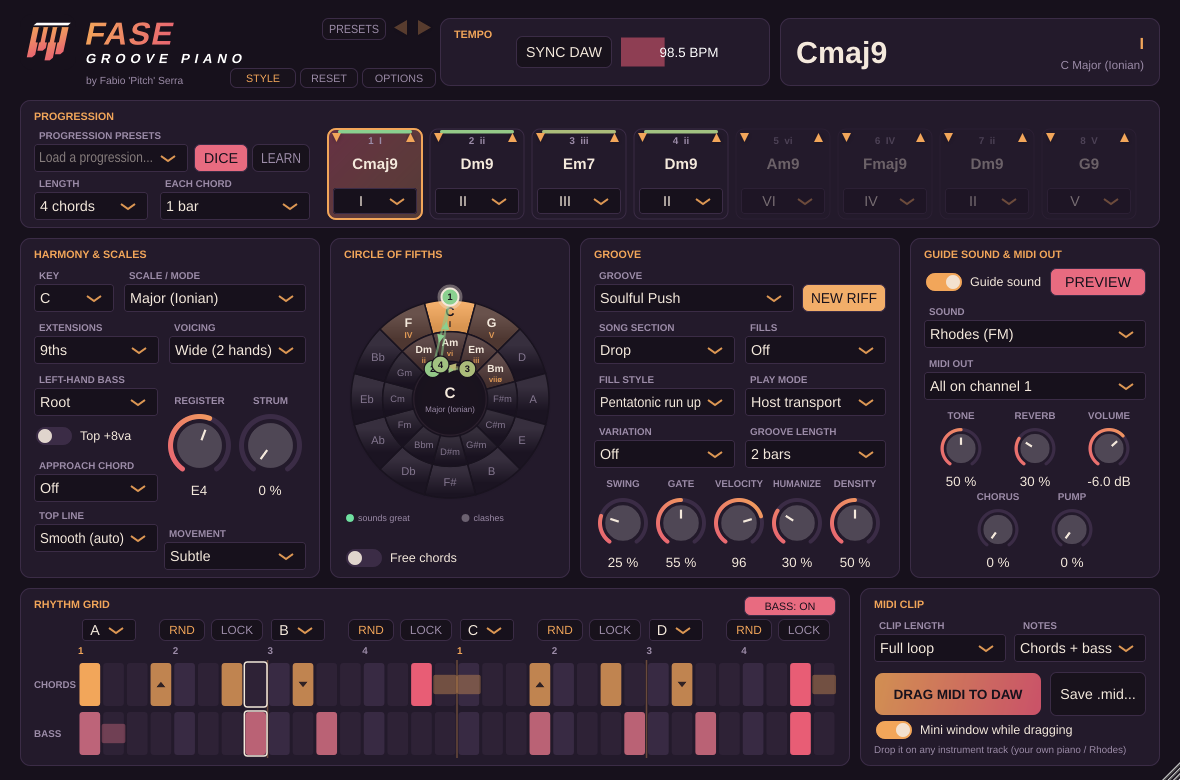
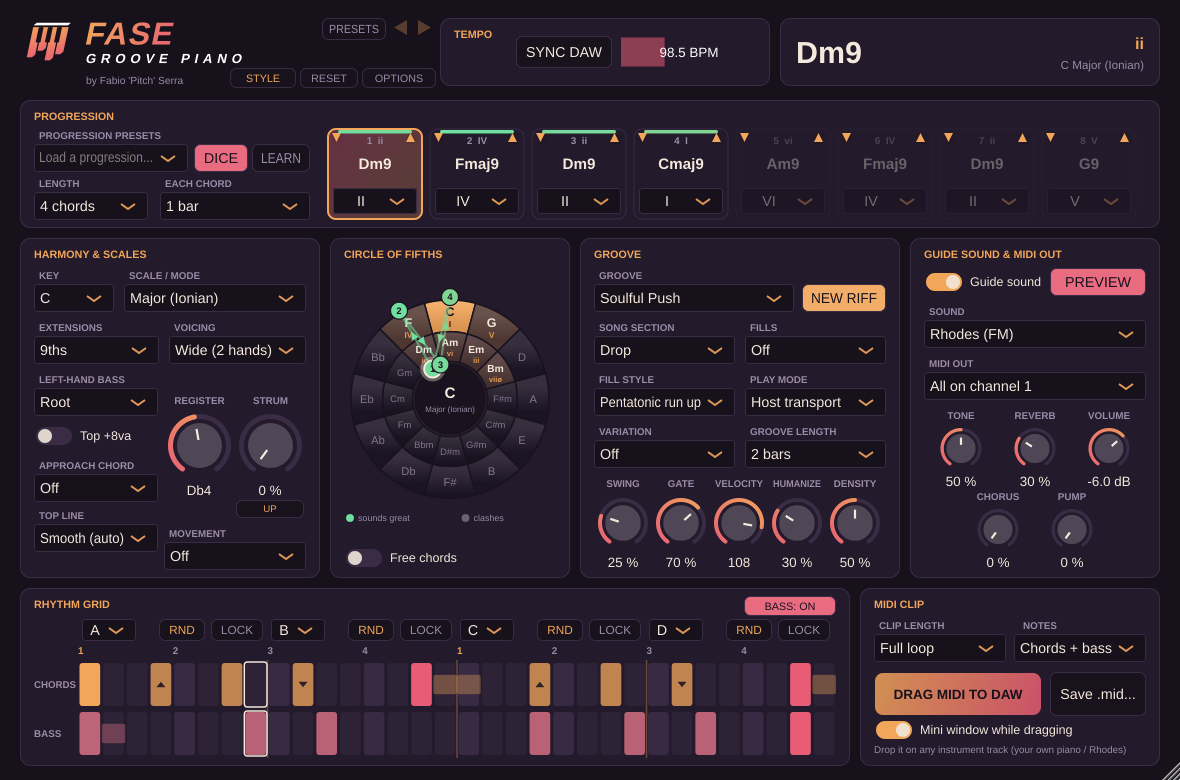
v1.13.0: house piano voicings, Piano House loop grooves, new defaults
- Voicing engine accepts the inner 9th/minor-3rd semitone, so rootless
  house shapes (b7-9-b3-5, 9-3-5-7) are chosen
- 16 Piano House grooves (128 in total) and a House Piano Loop style
- Defaults: rootless voicing, register C#4, gate 70%, velocity 108,
  movement off; random riffs use loop figures with an octave bass
- Guides, READMEs, website and changelogs (EN/IT)

Claude-Session: https://claude.ai/code/session_014RdMJH1UNm9GuUqHn9LsGH

diff --git a/docs/index.html b/docs/index.html
@@ -67,7 +67,7 @@
     <div class="card"><b>🎹 <span class="en">Harmony</span><span class="it">Armonia</span></b>
       <p class="en">13 scales, 9ths, 11ths, 6/9, sus and gospel dominants, voiced like a real pianist.</p>
       <p class="it">13 scale, none, undicesime, 6/9, sus e dominanti gospel, con voicing da pianista vero.</p></div>
-    <div class="card"><b>🥁 <span class="en">112 grooves</span><span class="it">112 groove</span></b>
+    <div class="card"><b>🥁 <span class="en">128 grooves</span><span class="it">128 groove</span></b>
       <p class="en">Soulful, deep, gospel, jackin', garage, afro, disco, '90s piano, neo soul, chill.</p>
       <p class="it">Soulful, deep, gospel, jackin', garage, afro, disco, piano anni '90, neo soul, chill.</p></div>
     <div class="card"><b>🎚 <span class="en">One-click styles</span><span class="it">Stili con un clic</span></b>

diff --git a/Source/engine/Generators.cpp b/Source/engine/Generators.cpp
@@ -195,8 +195,81 @@ GroovePattern applySection (const GroovePattern& source, Section section)
 }
 
 //==============================================================================
+namespace
+{
+    /** Piano house riff from the classic loop figures: syncopated offbeat stabs (often every
+        three 16ths) over an octave bass on the 1 and the "&" of 2, decorated per seed. */
+    GroovePattern makeLoopRiff (Random& rng, double density)
+    {
+        static const char* const rhBars[] {
+            "..x..x..x..x..x.", "..x....x...x..x.", "x......x..x..x..", "x...x..x..x..x..",
+            "x..x..x...x..x..", ".x..x.x.x..x..x.", "..xx.x..x.x.....", "..x..x....x..x..",
+            "x..x..x..x..x.x.", "..x..x..x...x...",
+        };
+        static const char* const lhBars[] {
+            "x.....x.........", "x.....x.......x.", "x.....x.....x...", "x.....x.x...x.x.",
+        };
+        constexpr int numRh = (int) (sizeof (rhBars) / sizeof (*rhBars));
+        constexpr int numLh = (int) (sizeof (lhBars) / sizeof (*lhBars));
+
+        const int a = rng.below (numRh);
+        const int b = rng.chance (0.45) ? a : rng.below (numRh);
+        std::string right = std::string (rhBars[a]) + rhBars[b];
+
+        const int la = rng.below (numLh);
+        std::string left = std::string (lhBars[la]) + lhBars[rng.chance (0.6) ? la : rng.below (numLh)];
+
+        // Accent the first hit of each bar, sometimes an offbeat; hold some stabs a little
+        // longer in sparse riffs; a ghost before a hit in busy ones.
+        for (int bar = 0; bar < 2; ++bar)
+        {
+            bool first = true;
+            for (int i = bar * 16; i < bar * 16 + 16; ++i)
+            {
+                char& c = right[(size_t) i];
+                if (c != 'x')
+                    continue;
+                if (first || rng.chance (0.2))
+                    c = 'X';
+                first = false;
+                if (i + 1 < 32 && right[(size_t) i + 1] == '.' && rng.chance (0.3 * (1.0 - density)))
+                    right[(size_t) i + 1] = '=';
+            }
+        }
+        for (int i = 1; i < 31; ++i)
+            if (right[(size_t) i] == '.' && isHit (right[(size_t) i + 1]) && rng.chance (0.12 * density))
+                right[(size_t) i] = 'g';
+
+        // Push into the next loop, now and then with the bass.
+        if (rng.chance (0.45) && right[30] != '=')
+        {
+            right[30] = '>'; right[31] = '=';
+            if (rng.chance (0.5)) { left[30] = '>'; left[31] = '='; }
+        }
+
+        repairHolds (right);
+        repairHolds (left);
+
+        GroovePattern p;
+        p.rightHand = right;
+        p.leftHand = left;
+        return p;
+    }
+}
+
 GroovePattern makeRandomPattern (std::uint32_t seed, float densityIn)
 {
+    {
+        // Half of the riffs come from the classic piano house loop figures.
+        Random pick (seed ^ 0xC0FFEEu);
+        if (pick.chance (0.5))
+        {
+            auto p = makeLoopRiff (pick, std::clamp ((double) densityIn, 0.0, 1.0));
+            p.name = "Random Riff #" + std::to_string (seed % 100000);
+            return p;
+        }
+    }
+
     // Built like a keyboard player builds a riff: a half-bar motif made of house
     // comping cells, answered by a second half-bar, then repeated with a different ending
     // that pushes into the next bar (A B A B'). The bass keeps it simple and locks to it.
@@ -263,25 +336,11 @@ GroovePattern makeRandomPattern (std::uint32_t seed, float densityIn)
         answer = std::string (answer.rbegin(), answer.rend());
     answer = decorate (answer);
 
-    // The answer moves: some hits play the chord an inversion up or down, so the top note
-    // sings a little melody against the motif (call and response).
-    auto addMovement = [&] (std::string half)
-    {
-        bool first = true;
-        for (auto& c : half)
-        {
-            if (! isHit (c) || c == 'g' || c == '>')
-                continue;
-            if (! first && rng.chance (0.55))
-                c = rng.chance (0.6) ? (c == 'X' ? 'U' : 'u') : (c == 'X' ? 'D' : 'd');
-            first = false;
-        }
-        return half;
-    };
-    answer = addMovement (answer);
+    // House piano keeps one voicing per chord, so riffs don't move by default
+    // (the Movement control adds it when wanted).
 
     // B': the answer with a new last beat.
-    const std::string ending = answer.substr (0, 4) + addMovement (decorate (pickCell()));
+    const std::string ending = answer.substr (0, 4) + decorate (pickCell());
 
     std::string right = motif + answer + motif + ending;
 

diff --git a/Source/PluginProcessor.cpp b/Source/PluginProcessor.cpp
@@ -51,8 +51,8 @@ juce::AudioProcessorValueTreeState::ParameterLayout FaseGroovePianoProcessor::cr
     choice (ParamIDs::key, "Key", noteNames(), 9);
     choice (ParamIDs::scale, "Scale", namesFrom (sgk::numScales, sgk::scaleName), 1);
     choice (ParamIDs::extension, "Extensions", namesFrom (sgk::numExtensions, sgk::extensionName), 2);
-    choice (ParamIDs::voicing, "Voicing", namesFrom (sgk::numVoicings, sgk::voicingName), 0);
-    layout.add (std::make_unique<AudioParameterInt> (ParameterID { ParamIDs::registerPos, 1 }, "Register", 48, 76, 64,
+    choice (ParamIDs::voicing, "Voicing", namesFrom (sgk::numVoicings, sgk::voicingName), 2);   // rootless: the house piano sound
+    layout.add (std::make_unique<AudioParameterInt> (ParameterID { ParamIDs::registerPos, 1 }, "Register", 48, 76, 61,
                     AudioParameterIntAttributes().withStringFromValueFunction ([] (int v, int)
                     {
                         return String (sgk::noteName (v)) + String (v / 12 - 1);
@@ -86,14 +86,14 @@ juce::AudioProcessorValueTreeState::ParameterLayout FaseGroovePianoProcessor::cr
     for (int i = 0; i < sgk::numSegments; ++i)
         choice (ParamIDs::segment (i), "Segment " + String (i + 1), { "A", "B", "C", "D" }, i);
     unitFloat (ParamIDs::swing, "Swing", 0.0f, 0.25f);
-    unitFloat (ParamIDs::gate, "Gate", 0.1f, 0.55f);
-    layout.add (std::make_unique<AudioParameterInt> (ParameterID { ParamIDs::velocity, 1 }, "Velocity", 1, 127, 96));
+    unitFloat (ParamIDs::gate, "Gate", 0.1f, 0.7f);
+    layout.add (std::make_unique<AudioParameterInt> (ParameterID { ParamIDs::velocity, 1 }, "Velocity", 1, 127, 108));
     unitFloat (ParamIDs::humanize, "Humanize", 0.0f, 0.3f);
     choice (ParamIDs::fills, "Fills", { "Off", "Every 2 bars", "Every 4 bars", "Every 8 bars", "Every bar" }, 0);
     choice (ParamIDs::fillStyle, "Fill Style", namesFrom (sgk::numFillStyles, sgk::fillStyleName), 0);
     choice (ParamIDs::variation, "Variation", { "Off", "Every 4 bars", "Every 8 bars" }, 0);
     choice (ParamIDs::grooveBars, "Groove Length", { "2 bars", "1 bar", "4 bars" }, 0);
-    choice (ParamIDs::movement, "Voicing Movement", { "Off", "Subtle", "Lively" }, 1);
+    choice (ParamIDs::movement, "Voicing Movement", { "Off", "Subtle", "Lively" }, 0);
     choice (ParamIDs::strumDir, "Strum Direction", { "Up", "Down", "Alternate" }, 0);
     unitFloat (ParamIDs::strum, "Strum", 0.0f, 0.0f);
     layout.add (std::make_unique<AudioParameterBool> (ParameterID { ParamIDs::octaveTop, 1 }, "Top Note +8va", false));
@@ -202,6 +202,7 @@ namespace
     // bass: 0 off 1 root 2 octaves 3 root+5th   approach: 0 off 1 above 2 below
     // sound: 0 Rhodes 1 Soulful Grand 2 House Piano 3 House Organ
     const Style styles[] {
+        { "House Piano Loop",     "Minor Flow  i - VI - III - VII",    "Dotted House Stabs",   2, 2, 2, 0, 2, 61, 0.25f, 0.75f, 0.15f, 0.00f, false, 0, 0 },
         { "Classic Deep House",   "Dorian Vamp  i - IV",               "Deep Chords",          2, 2, 1, 0, 0, 62, 0.20f, 0.60f, 0.25f, 0.10f, false },
         { "Soulful House",        "Turnaround  I - vi - ii - V",       "Soulful Sunday",       7, 1, 1, 1, 1, 64, 0.25f, 0.55f, 0.30f, 0.20f, false, 3, 7 },
         { "Gospel House",         "Gospel Lift  IV - V - vi - I",      "Gospel Shout",         7, 0, 2, 1, 1, 64, 0.30f, 0.50f, 0.30f, 0.15f, true, 2, 3 },
@@ -415,8 +416,8 @@ void FaseGroovePianoProcessor::applyStyle (int index)
     setParameterFromUI (ParamIDs::section, 0.0f);
     {
         const juce::String name (st.name);
-        const bool lively = name.contains ("Jackin'") || name.contains ("Gospel") || name.contains ("Disco") || name.contains ("Organ");
-        setParameterFromUI (ParamIDs::movement, lively ? 2.0f : 1.0f);
+        // House piano keeps one voicing per chord; only the jackin' piano style dances.
+        setParameterFromUI (ParamIDs::movement, name == "Jackin' Piano" ? 2.0f : 0.0f);
     }
     setParameterFromUI (ParamIDs::fills, (float) st.fills);
     setParameterFromUI (ParamIDs::fillStyle, (float) st.fillStyle);

diff --git a/Source/engine/GrooveEngine.cpp b/Source/engine/GrooveEngine.cpp
@@ -418,6 +418,55 @@ const std::vector<GroovePattern>& groovePatterns()
         { "Organ Piano Jack",
           compact ("..x= ..u= ..x= ..d= ..x= ..u= ..x= .U>="),
           compact ("x... ..x. x... ..x. x... ..x. x... ..>="), "Jackin' Piano" },
+        // ---- v1.13: piano house loops (rootless chords on syncopated offbeats, octave bass) ----
+        { "Dotted House Stabs",
+          compact ("..X. .x.. x..x ..x. ..X. .x.. x..x ..>="),
+          compact ("x... ..x. .... .... x... ..x. .... ..x."), "Piano House" },
+        { "Loop Piano Classic",
+          compact ("..X. ...x ...x ..x. X... ...x ..x. .x.."),
+          compact ("x... ..x. .... .... x... ..x. .... x..."), "Piano House" },
+        { "Rolling House Keys",
+          compact ("X... x..x ..x. .x.. ..X. .x.. x..x ..x."),
+          compact ("x... ..x. .... ..x. x... ..x. .... ...."), "Piano House" },
+        { "Three-Three-Two Piano",
+          compact ("X..x ..x. ..x. .x.. X..x ..x. ..x. .>=."),
+          compact ("x... ..x. .... .... x... ..x. .... ...."), "Piano House" },
+        { "Offbeat Piano Loop",
+          compact (".X.. x.x. x..x ..x. ..X. ...x ...x ..x."),
+          compact ("x... ..x. .... x... x... ..x. .... ..x."), "Piano House" },
+        { "Upfront Piano Stabs",
+          compact ("..Xx .x.. x.x. .... ..X. .x.. x..x ..x."),
+          compact ("x... ..x. x... x.x. x... ..x. .... ...."), "Piano House" },
+        { "Early Change Piano",
+          compact ("..X. .x.. x.>= ==== ..X. .x.. x..x ..x."),
+          compact ("x... ..x. ..>= .... x... ..x. .... ...."), "Piano House" },
+        { "Peak Time Piano",
+          compact ("X... ...x ..X. .x.. X... x..x ..X. .x.."),
+          compact ("x... ..x. .... ..x. x... ..x. .... ..x."), "Piano House" },
+        { "Sunset Piano Loop",
+          compact ("..X= ...x =..x =.x. ..X= ...x =..x =.x."),
+          compact ("x... ..x. .... .... x... ..x. .... x..."), "Piano House" },
+        { "Two Chord Bounce",
+          compact ("..X. .x.. x..x ..x. X... ...x ..x. .x.."),
+          compact ("x... ..x. .... x... x... ..x. .... ...."), "Piano House" },
+        { "Piano Pump",
+          compact ("X... x..x ..x. .x.. X... x..x ..x. ..>="),
+          compact ("x... ..x. x... x.x. x... ..x. x... x.>="), "Piano House" },
+        { "Classic Loop Answer",
+          compact ("X..x ..x. ..x. .x.. .X.. x.x. x..x ..x."),
+          compact ("x... ..x. .... .... x... ..x. .... ..x."), "Piano House" },
+        { "Deep Piano Loop",
+          compact ("X=.. ...x =..x =... ..X= ..x= ..x= ..x."),
+          compact ("x=.. ..x= .... .... x=.. ..x= .... ..x."), "Piano House" },
+        { "Anthem Piano Loop",
+          compact ("X..x ..x. ..x. .x.. X..x ..x. .x.. x.x."),
+          compact ("x... ..x. .... ..x. x... ..x. x... x.x."), "Piano House" },
+        { "Night Drive Piano",
+          compact ("..X. .x.. ..x. .x.. ..X. .x.. x... x..."),
+          compact ("x... ..x. .... .... x... ..x. .... ...."), "Piano House" },
+        { "Skippy Piano Stabs",
+          compact (".X.. x.x. x..x ..x. ..X. .x.. x..x .x.."),
+          compact ("x... ..x. .... x... x... ..x. .... ..x."), "Piano House" },
     };
 
     return patterns;
@@ -425,7 +474,7 @@ const std::vector<GroovePattern>& groovePatterns()
 
 const std::vector<const char*>& grooveCategories()
 {
-    static const std::vector<const char*> categories { "Soulful", "Deep", "Gospel", "Jackin'", "Jackin' Piano", "Garage & UK",
+    static const std::vector<const char*> categories { "Piano House", "Soulful", "Deep", "Gospel", "Jackin'", "Jackin' Piano", "Garage & UK",
                                                        "Afro & Latin", "Funky & Disco", "'90s Piano House", "Neo Soul & Broken",
                                                        "Chill & Pads" };
     return categories;

diff --git a/Source/Localisation.cpp b/Source/Localisation.cpp
@@ -249,6 +249,9 @@ namespace
         { "Alternate", "Alternato", "Alterno", "Alterné", "Abwechselnd", "Alternado" },
         { "Direction of the roll: up, down, or alternating (up on the beat, down off it). Click to change", "Direzione dell'arpeggiato: su, giù o alternato (su sui tempi, giù sui controtempi). Clicca per cambiare", "Dirección del arpegiado: arriba, abajo o alterno (arriba en el tiempo, abajo a contratiempo). Haz clic para cambiar", "Sens de l'arpège : haut, bas ou alterné (haut sur le temps, bas à contretemps). Clique pour changer", "Richtung des Anschlags: hoch, runter oder abwechselnd (hoch auf dem Schlag, runter dazwischen). Klicken zum Wechseln", "Direção do dedilhado: cima, baixo ou alternado (cima no tempo, baixo no contratempo). Clique para mudar" },
 
+        { "Piano House", "Piano house", "Piano house", "Piano house", "Piano House", "Piano house" },
+        { "House Piano Loop", "Loop di piano house", "Loop de piano house", "Boucle de piano house", "House-Piano-Loop", "Loop de piano house" },
+
         // ---- v1.10 ----
         { "Jackin' Piano", "Piano jackin'", "Piano jackin'", "Piano jackin'", "Jackin' Piano", "Piano jackin'" },
         { "Hit, voicing up", "Colpo, rivolto su", "Golpe, inversión arriba", "Coup, renversement vers le haut", "Anschlag, Umkehrung hoch", "Toque, inversão acima" },

diff --git a/Source/PluginEditor.cpp b/Source/PluginEditor.cpp
@@ -918,8 +918,8 @@ FaseGroovePianoEditor::FaseGroovePianoEditor (FaseGroovePianoProcessor& p)
                 if (patterns[(size_t) i].category == genres[g])
                     group.items.push_back (i);
 
-            // Columns: soulful, deep, gospel | jackin', jackin' piano | garage, afro, funky | '90s, neo soul, chill, generate
-            group.columnBreakAfter = g == 2 || g == 4 || g == 7;
+            // Columns: piano house, soulful, deep | gospel, jackin', jackin' piano | garage, afro, funky | '90s, neo soul, chill, generate
+            group.columnBreakAfter = g == 2 || g == 5 || g == 8;
             groups.push_back (group);
         }
         groups.push_back ({ "Generate", { sgk::randomPatternIndex(), sgk::userPatternIndex() }, false });

diff --git a/Source/engine/Theory.cpp b/Source/engine/Theory.cpp
@@ -395,7 +395,10 @@ namespace
             const int low = v[i - 1];
 
             if (d == 0)                 p += 50.0;
-            if (d == 1)                 p += 9.0;
+            // A semitone between two inner voices in the middle register is the house piano
+            // sound (the 9th against the minor 3rd in "b7 9 b3 5"); anywhere else it rubs.
+            const bool innerPair = i >= 2 && i <= v.size - 2;
+            if (d == 1)                 p += (innerPair && low >= 55) ? 1.0 : 9.0;
             if (d == 2 && low < 52)     p += 3.0;
             if (d <= 4 && low < 48)     p += 4.0;
             if (d < 3 && low < 45)      p += 6.0;

diff --git a/tests/EngineTests.cpp b/tests/EngineTests.cpp
@@ -775,7 +775,7 @@ static void testStrum()
 
 static void testPatternsWellFormed()
 {
-    CHECK (groovePatterns().size() == 112);
+    CHECK (groovePatterns().size() == 128);
     for (const auto& p : groovePatterns())
         CHECK (std::find_if (grooveCategories().begin(), grooveCategories().end(), [&p] (const char* c) { return p.category == c; }) != grooveCategories().end());
 

diff --git a/docs/GUIDA.md b/docs/GUIDA.md
@@ -175,7 +175,7 @@ Anello esterno = tonalità maggiori, anello interno = relative minori.
 
 | Controllo | Cosa fa |
 |---|---|
-| **Groove** | 112 ritmi a due mani su 2 battute divisi per genere (vedi sotto), **Random riff** e **User pattern** (il tuo pattern modificato a mano sulla griglia). |
+| **Groove** | 128 ritmi a due mani su 2 battute divisi per genere (vedi sotto), **Random riff** e **User pattern** (il tuo pattern modificato a mano sulla griglia). |
 | **NEW RIFF** | Genera un riff nuovo (accordi + basso), costruito come lo costruisce un tastierista: un motivo di mezza battuta fatto di figure di comping house, con risposta e ripetizione (A B A B'), spesso con un anticipo verso la battuta successiva, sopra una figura di basso semplice che lo segue. Se hai bloccato qualche parte con **LOCK** (vedi *Rhythm grid*), quelle parti restano e cambia solo il resto. Riff e modifiche vengono salvati nel progetto. |
 | **Song section** | Main, Intro, Break, Build-up, Drop, Outro: trasforma il groove per la sezione del brano (vedi [capitolo 6](#6-costruire-un-brano-intro-break-drop)). |
 | **Fills** | **Spenti (Off)** di default. Ogni battuta, oppure ogni 2/4/8 battute, la fine della battuta diventa un breve fill che porta all'accordo successivo. |
@@ -188,12 +188,13 @@ Anello esterno = tonalità maggiori, anello interno = relative minori.
 | **Humanize** | Piccole variazioni di tempo e dinamica, per un feel suonato a mano. |
 | **Density** | Solo per i Random riff: da stab radi a chop di sedicesimi fitti. |
 
-**I groove: 112, divisi per genere.** Il menu *Groove* si apre a colonne con un titolo per ogni
+**I groove: 128, divisi per genere.** Se inizi ora parti da **Piano house**: i classici loop di piano house (accordi senza fondamentale sui controtempi sincopati, sopra un basso in ottava). Il menu *Groove* si apre a colonne con un titolo per ogni
 genere; *Random riff* e *User pattern* stanno sotto **Genera**. I groove jackin' suonano al meglio
 con Swing 30–45%, quelli UK garage con 45–55%.
 
 | Genere | Groove |
 |---|---|
+| **Piano house** (16) | *Dotted House Stabs*, *Loop Piano Classic*, *Rolling House Keys*, *Three-Three-Two Piano*, *Offbeat Piano Loop*, *Upfront Piano Stabs*, *Early Change Piano*, *Peak Time Piano*, *Sunset Piano Loop*, *Two Chord Bounce*, *Piano Pump*, *Classic Loop Answer*, *Deep Piano Loop*, *Anthem Piano Loop*, *Night Drive Piano*, *Skippy Piano Stabs* |
 | **Soulful** (9) | *Soulful Push*, *Soulful Sunday*, *Soulful Lift*, *Sunday Morning Keys*, *Soulful Offbeat 8ths*, *Soul Train Comp*, *Vocal House Stabs*, *Soulful Pianist*, *Warm Rhodes Swing* |
 | **Deep** (11) | *Deep Chords*, *Late Night Rhodes*, *Deep Sway*, *Deep Dub Stabs*, *Deep Late Pad*, *Deep Offbeat Chords*, *Larry's Chords*, *Deep Dorian Swing*, *Midnight Stabs*, *Deep Keys Rolls*, *Minimal Deep Pulse* |
 | **Gospel** (9) | *Gospel Bounce*, *Gospel Shout 16ths*, *Gospel Chops*, *Gospel Shout*, *Church Organ Swell*, *Gospel Walk*, *Praise Break*, *Sanctified Stabs*, *Gospel Ballad Swing* |
@@ -272,7 +273,7 @@ Trascina l'angolo in basso a destra per **ingrandire o rimpicciolire** l'interfa
 
 ### STILE e RESET
 
-- **STILE** apre un menu di impostazioni pronte per genere: *Classic Deep House*, *Soulful House*,
+- **STILE** apre un menu di impostazioni pronte per genere: *House Piano Loop*, *Classic Deep House*, *Soulful House*,
   *Gospel House*, *Jackin' House*, *'90s Piano House*, *Organ Jack*, *Nu Disco*, *Funky Disco*,
   *UK Garage*, *Afro House*, *Neo Soul*, *Jackin' Piano*, *Chill Lounge*. Ognuno imposta progressione (e la sua
   scala), estensioni, voicing, groove, swing, gate, humanize, strum, Top +8va, basso, accordo di

diff --git a/docs/GUIDE.md b/docs/GUIDE.md
@@ -170,7 +170,7 @@ Outer ring = major keys, inner ring = relative minors.
 
 | Control | What it does |
 |---|---|
-| **Groove** | 112 two-hand, two-bar rhythms grouped by genre (see below), **Random riff** and **User pattern** (your hand-edited grid). |
+| **Groove** | 128 two-hand, two-bar rhythms grouped by genre (see below), **Random riff** and **User pattern** (your hand-edited grid). |
 | **NEW RIFF** | Generates a new riff (chords + bass), built like a keyboard player builds one: a half-bar motif made of house comping figures, answered and repeated (A B A B'), often with a push into the next bar, over a simple bass figure that locks to it. If you locked some parts with **LOCK** (see *Rhythm grid*), those parts stay and only the rest changes. Riffs and edits are saved with your project. |
 | **Song section** | Main, Intro, Break, Build-up, Drop, Outro: reshapes the groove for that part of the track (see [chapter 6](#6-building-a-track-intro-break-drop)). |
 | **Fills** | **Off** by default. Every bar, or every 2/4/8 bars, the end of the bar becomes a short fill leading into the next chord. |
@@ -183,12 +183,13 @@ Outer ring = major keys, inner ring = relative minors.
 | **Humanize** | Small timing and velocity variations for a hand-played feel. |
 | **Density** | Random riffs only: from sparse stabs to busy 16th-note chops. |
 
-**The grooves: 112, by genre.** The *Groove* menu opens in columns with one heading per genre;
+**The grooves: 128, by genre.** New users: start from **Piano House**, the classic house piano loops (rootless chords on syncopated offbeats over an octave bass). The *Groove* menu opens in columns with one heading per genre;
 *Random riff* and *User pattern* are under **Generate**. Jackin' grooves sound best with Swing at
 30–45%, UK garage ones with 45–55%.
 
 | Genre | Grooves |
 |---|---|
+| **Piano House** (16) | *Dotted House Stabs*, *Loop Piano Classic*, *Rolling House Keys*, *Three-Three-Two Piano*, *Offbeat Piano Loop*, *Upfront Piano Stabs*, *Early Change Piano*, *Peak Time Piano*, *Sunset Piano Loop*, *Two Chord Bounce*, *Piano Pump*, *Classic Loop Answer*, *Deep Piano Loop*, *Anthem Piano Loop*, *Night Drive Piano*, *Skippy Piano Stabs* |
 | **Soulful** (9) | *Soulful Push*, *Soulful Sunday*, *Soulful Lift*, *Sunday Morning Keys*, *Soulful Offbeat 8ths*, *Soul Train Comp*, *Vocal House Stabs*, *Soulful Pianist*, *Warm Rhodes Swing* |
 | **Deep** (11) | *Deep Chords*, *Late Night Rhodes*, *Deep Sway*, *Deep Dub Stabs*, *Deep Late Pad*, *Deep Offbeat Chords*, *Larry's Chords*, *Deep Dorian Swing*, *Midnight Stabs*, *Deep Keys Rolls*, *Minimal Deep Pulse* |
 | **Gospel** (9) | *Gospel Bounce*, *Gospel Shout 16ths*, *Gospel Chops*, *Gospel Shout*, *Church Organ Swell*, *Gospel Walk*, *Praise Break*, *Sanctified Stabs*, *Gospel Ballad Swing* |
@@ -267,7 +268,7 @@ remembered with your project.
 
 ### STYLE and RESET
 
-- **STYLE** opens a menu of ready-made setups by genre: *Classic Deep House*, *Soulful House*,
+- **STYLE** opens a menu of ready-made setups by genre: *House Piano Loop*, *Classic Deep House*, *Soulful House*,
   *Gospel House*, *Jackin' House*, *'90s Piano House*, *Organ Jack*, *Nu Disco*, *Funky Disco*,
   *UK Garage*, *Afro House*, *Neo Soul*, *Jackin' Piano*, *Chill Lounge*. Each one sets the progression (and its
   scale), extensions, voicing, groove, swing, gate, humanize, strum, Top +8va, bass, approach chord,

diff --git a/README.it.md b/README.it.md
@@ -42,7 +42,7 @@ guida e lo **trascini nella DAW come clip MIDI**, per suonarlo col tuo piano, Rh
 - ⭕ **Circolo delle quinte** interattivo: gli accordi della scala coi numeri romani, la progressione con punti numerati e frecce, trascina i punti per cambiare gli accordi (anche fuori scala).
 - 🌈 **Colori dell'armonia:** accordi e passaggi colorati in base a quanto suonano bene insieme (verde = benissimo, grigio = stride).
 - 🎚 **STILE:** impostazioni pronte per genere con un clic (deep, soulful, gospel, jackin', piano anni '90, garage, afro, neo soul…) e **RESET** per ripartire da zero.
-- 🥁 **112 groove** a due mani in 11 generi (soulful, deep, gospel, **jackin' house**, **piano jackin'**, garage, afro, funky e disco, piano house anni '90, neo soul, chill), con accordi che si muovono di rivolto dentro la battuta come un vero riff di piano
+- 🥁 **128 groove** a due mani in 12 generi (loop di **piano house**, soulful, deep, gospel, **jackin' house**, **piano jackin'**, garage, afro, funky e disco, piano house anni '90, neo soul, chill), con accordi che si muovono di rivolto dentro la battuta come un vero riff di piano
   più **NEW RIFF**, che genera riff funky casuali sul momento, e fill opzionali (11 stili, dalle scale gospel ai glissati di piano).
 - 🎚 **Strum** (accordi arpeggiati come un pianista vero) e **Top +8va** (nota alta raddoppiata all'ottava).
 - ✏ **Griglia ritmica modificabile** a mano, divisa in parti **A/B/C/D** da combinare,

diff --git a/README.md b/README.md
@@ -43,7 +43,7 @@ Rhodes or synth.
 - ⭕ Interactive **circle of fifths**: the chords of the scale with their numerals, your progression as numbered dots and arrows, drag the dots to change chords (even outside the scale).
 - 🌈 **Harmony colours:** chords and chord changes coloured by how well they sound together (green = great, grey = clashes).
 - 🎚 **STYLE:** one-click setups by genre (deep, soulful, gospel, jackin', '90s piano, garage, afro, neo soul…) and **RESET** to start over.
-- 🥁 **112 two-hand grooves** in 11 genres (soulful, deep, gospel, **jackin' house**, **jackin' piano**, garage, afro, funky & disco, '90s piano house, neo soul, chill), with chords that move by inversions inside the bar like a real piano riff
+- 🥁 **128 two-hand grooves** in 12 genres (**piano house** loops, soulful, deep, gospel, **jackin' house**, **jackin' piano**, garage, afro, funky & disco, '90s piano house, neo soul, chill), with chords that move by inversions inside the bar like a real piano riff
   plus **NEW RIFF**, a random funky riff generator, and optional fills (11 styles, from gospel runs to piano glissandos).
 - 🎚 **Strum** (rolled chords like a real pianist) and **Top +8va** (bright octave-doubled top note).
 - ✏ **Editable rhythm grid** split into parts **A/B/C/D** you can reorder, randomize (RND) and
